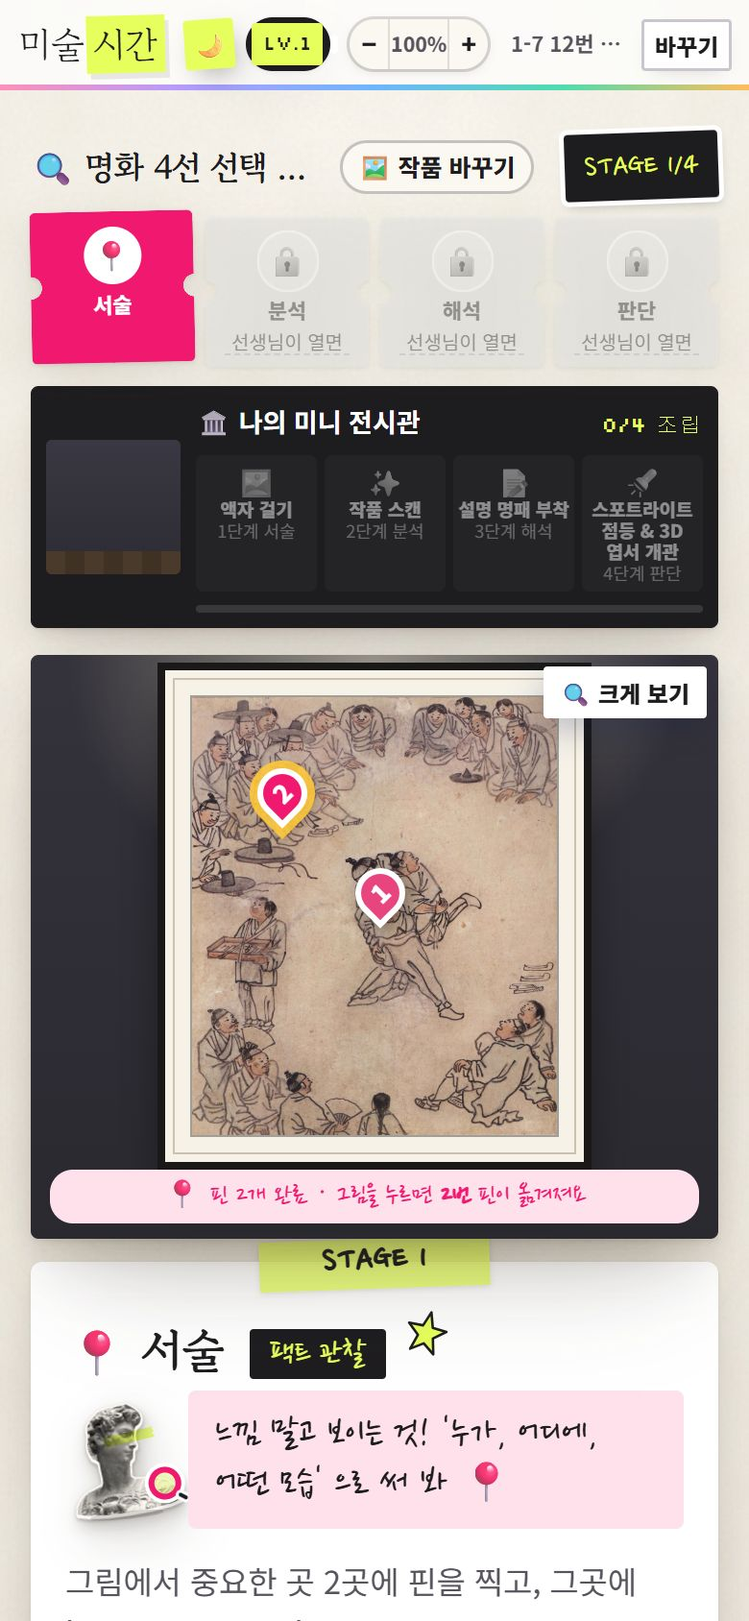
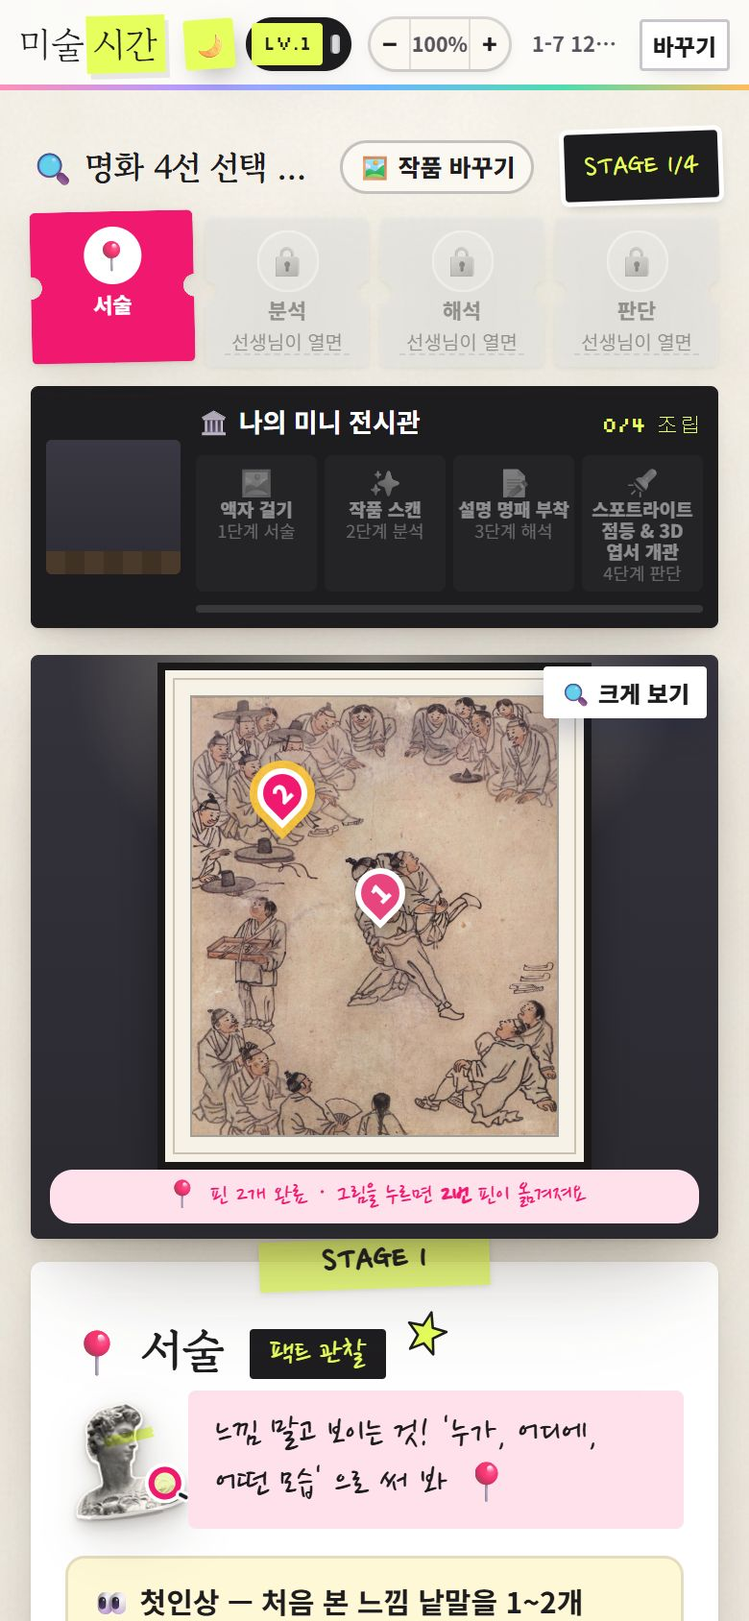
동기유발·펠드먼 보완 반영: 🎬 10초 플래시·부분 확대 미스터리, 교실 활동 카드, 90분 블록 계획, 👀 첫인상·🏷 미술 용어·🗝 작가 단서·🔁 다시 본 느낌, FAQ, 화면 새로 찍음

diff --git a/index.html b/index.html
@@ -172,6 +172,14 @@ h2 { font-family: var(--serif); font-weight: 700; font-size: clamp(30px, 4.4vw, 
 
 /* ── 교사 도구 ── */
 .tools { display: grid; grid-template-columns: repeat(3, 1fr); gap: 18px; }
+.tools.four { grid-template-columns: repeat(4, 1fr); }
+@media (max-width: 980px) { .tools.four { grid-template-columns: repeat(2, 1fr); } }
+@media (max-width: 560px) { .tools.four { grid-template-columns: 1fr; } }
+.blockplan { display: grid; grid-template-columns: repeat(7, auto); gap: 6px; margin: 26px 0 6px; padding: 0; list-style: none; overflow-x: auto; }
+.blockplan li { min-width: 108px; padding: 10px 10px 9px; background: var(--paper); box-shadow: var(--shadow); font-size: 13px; line-height: 1.45; }
+.blockplan li b { display: block; font-family: var(--px); font-size: 10.5px; color: var(--pink); margin-bottom: 2px; }
+.blockplan li.brk { background: transparent; box-shadow: none; display: grid; place-items: center; color: var(--ink-3); font-weight: 800; min-width: 70px; }
+@media (max-width: 860px) { .blockplan { grid-template-columns: repeat(2, 1fr); } .blockplan li.brk { grid-column: 1 / -1; } }
 .tool { padding: 22px 20px 20px; background: var(--paper); box-shadow: var(--shadow); position: relative; }
 .tool .ic { font-size: 28px; }
 .tool h4 { margin: 6px 0 4px; font-size: 17px; }
@@ -466,12 +474,13 @@ footer .credit { font-size: 12.5px; color: var(--ink-3); }
 
     <div class="fs" id="s1">
       <div class="txt rv"><div class="num">01</div><span class="chip">팩트 관찰</span><h3>서술 — 보이는 것만, 사실대로</h3><p class="sub">느낌 말은 잠깐 참아요!</p>
-        <ul><li>그림에서 중요한 곳 <b>두 곳에 핀</b>을 찍고, 핀마다 <b>보이는 사실 한 문장</b>을 씁니다.</li>
+        <ul><li><b>👀 첫인상</b> — 서술 맨 위에서 교과서 '감상의 첫발'(49쪽) 느낌 낱말 15개 중 1~2개를 먼저 고릅니다. <b>"느낌은 여기에만!"</b> 맡겨 두고, 아래 서술에는 사실만 씁니다. 판단을 마치면 이 첫인상과 다시 비교해요.</li>
+          <li>그림에서 중요한 곳 <b>두 곳에 핀</b>을 찍고, 핀마다 <b>보이는 사실 한 문장</b>을 씁니다.</li>
           <li>'예쁘다·무섭다' 같은 <b>느낌 말이 들어가면 바로 안내</b>가 떠서 관찰 문장으로 고쳐 쓰게 됩니다.</li>
           <li>작품마다 준비된 <b>관찰 단어 칩</b>을 누르면 문장에 쏙 들어갑니다.</li>
           <li>칠판의 작품 탭에는 그 작품을 고른 학생들이 찍은 <b>① ② 핀 지도</b>가 그려져, 시선이 어디에 모였는지 한눈에 보입니다.</li>
           <li>제출하면 <b>"📍 단서 포착 완료!"</b> 도장이 쾅 찍히고, 쓴 글이 경험치 바로 쏙 빨려 들어갑니다.</li></ul></div>
-      <div class="vis rv"><div class="phone rot-l"><img src="img/s-describe2.jpg" alt="학생 화면: 핀 두 개와 관찰 문장 쓰기" loading="lazy" width="780" height="1688"></div>
+      <div class="vis rv"><div class="phone rot-l"><img src="img/s-first.jpg" alt="학생 화면: 첫인상 느낌 낱말 고르기와 관찰 문장 쓰기" loading="lazy" width="780" height="1688"></div>
         <div class="shot"><span class="tape"></span><img src="img/t-describe.jpg" alt="교사 칠판: 반 전체 관찰 핀 지도와 학생 문장" loading="lazy" width="2160" height="1350"><p class="cap">칠판 [작품 1] 탭 — 핀 지도</p></div></div>
     </div>
 
@@ -481,6 +490,7 @@ footer .credit { font-size: 12.5px; color: var(--ink-3); }
           <li>질문은 "칸이 작아지나요?" 같은 묘사가 아니라 <b>"이 조형 장치가 그림 전체에 어떤 느낌과 시각적 효과를 만들어 내나요?"</b>입니다.</li>
           <li>깊이감 · 시선 집중 · 역동감 · 균형처럼 서로 다른 <b>효과 4가지 중 가장 공감 가는 것</b>을 고릅니다. <b>정답·오답이 없어</b> 무엇을 골라도 근거 칸이 열립니다.</li>
           <li>근거 칸은 <b>"그림의 [어느 부분]의 [무엇]이 [어떻게] 되어 있어서 ‘깊이감’이 느껴진다"</b>처럼 고른 효과와 그림 속 위치를 잇는 한 줄 비평으로 이끕니다.</li>
+          <li><b>🏷 미술 용어 칩</b> — 근거 칸 아래 구도·강조·균형·대칭·대비·리듬·반복·비례·원근·동세·시선·보색 칩을 누르면 뜻이 나오고 문장에 쏙 들어갑니다. 용어를 쓰면 "🏷 미술 용어 사용!"과 ⭐ 보너스가 켜지고, 칠판에는 용어를 쓴 학생 수가 보입니다. (평가 기준 '미술 용어와 지식을 활용하여 설명')</li>
           <li>칠판에는 작품별로 우리 반이 공감한 <b>효과 분포 막대</b>가 쌓이고, 선생님도 칠판의 [👁 보조선 켜기]로 TV 속 작품 위에 같은 보조선을 띄워 함께 짚어 볼 수 있습니다.</li></ul>
         <ul class="pick4">
           <li><img src="img/art-ssireum.jpg" alt="" loading="lazy"><span><b>⭕ 원형 구도 · ✖ 엇갈린 대각선</b>김홍도 〈씨름〉</span></li>
@@ -494,12 +504,13 @@ footer .credit { font-size: 12.5px; color: var(--ink-3); }
     <div class="fs" id="s3">
       <div class="txt rv"><div class="num">03</div><span class="chip">의미 해석</span><h3>해석 — 내 근거로 작가의 뜻 읽기</h3><p class="sub">정답은 없어요, 근거만 있으면!</p>
         <ul><li>1·2단계에서 내가 쓴 관찰과 분석이 <b>'내가 모은 근거'</b>로 자동 정리되어 위에 놓입니다.</li>
+          <li><b>🗝 작가 단서 카드</b> — 내 근거로 첫 해석을 내면, 그제야 작가와 시대에 관한 단서 한 단락이 열립니다(진짜 제목·작가 이름은 비밀). 생각이 달라지면 <b>고쳐 쓸 수 있고(선택)</b>, 처음 해석은 남아 비교할 수 있습니다. '맥락' 관점까지 넓히는 장치입니다.</li>
           <li>모든 작품에 같은 <b>열린 발문</b> — "작가는 이 그림을 통해 어떤 감정이나 이야기를 전하고 싶었을까?"</li>
           <li><b>🎭 분위기와 감정 · 🎨 표현의 의도 · 📖 숨은 메시지</b> 세 렌즈 중 하나를 골라 생각을 시작합니다.</li>
           <li>막힐 때 펼치는 예시 문장은 <b>다른 그림(폭풍우 바다)</b> 이야기라 베낄 수 없고, 쓰는 구조만 배웁니다.</li>
           <li>칠판에는 우리 반이 고른 <b>렌즈 막대</b>가 실시간으로 쌓입니다.</li></ul>
         <div class="quote">"작가는 씨름판의 흥겨운 열기를 전하고 싶었을 것이다. 왜냐하면 구경꾼들이 둥글게 모여 모두 가운데를 보며 웃고 있기 때문이다."<small>— 근거가 있는 해석 (가상 학생 답)</small></div></div>
-      <div class="vis rv"><div class="phone rot-l"><img src="img/s-interpret2.jpg" alt="학생 화면: 해석의 3가지 렌즈 고르기" loading="lazy" width="780" height="1688"></div>
+      <div class="vis rv"><div class="phone rot-l"><img src="img/s-clue.jpg" alt="학생 화면: 첫 해석 뒤 열린 작가 단서 카드와 고쳐 쓴 해석" loading="lazy" width="780" height="1688"></div>
         <div class="shot"><span class="tape pk"></span><img src="img/t-spot.jpg" alt="교사 칠판: 렌즈 막대와 스포트라이트 중인 학생 답" loading="lazy" width="2160" height="1350"><p class="cap">누르면 반 전체 화면에 📢 스포트라이트</p></div></div>
     </div>
 
@@ -508,9 +519,10 @@ footer .credit { font-size: 12.5px; color: var(--ink-3); }
         <ul><li>💗 생생한 감정 전달 · 📐 치밀한 구도와 표현 · 📜 시대와 삶의 기록 · 👁 사실적인 재현 — <b>네 가지 비평 관점</b> 중 하나를 고릅니다.</li>
           <li>문장 틀의 첫 빈칸은 칩으로, <b>"특히 그림 속 ___ 부분"</b>의 둘째 빈칸은 그림을 보고 직접 씁니다. 빈칸이 남으면 공유할 수 없습니다.</li>
           <li>1~4단계 답이 <b>한 장의 비평문 카드</b>로 자동으로 묶입니다.</li>
+          <li><b>🔁 다시 본 느낌</b> — "👀 처음 느낌: 활기찬 → 지금은?" 비평을 마친 뒤 느낌 낱말을 다시 고릅니다. 엽서 에세이 끝에 "처음엔 '활기찬' 느낌이었다. 비평을 마친 지금은 '생생한' 느낌이 든다."가 들어가고, 칠판에는 느낌이 달라진 학생 수가 보입니다.</li>
           <li><b>🏷 나만의 작품 제목</b>을 지어야 카드를 공유할 수 있습니다. 진짜 제목을 모르는 채, 내 비평을 담아 작품에 새 이름을 붙입니다.</li>
           <li>내 카드를 공유해야 같은 작품을 고른 친구들의 카드가 열리고, 설득력 있는 카드에 <b>한 사람 3표</b>로 투표합니다.</li></ul></div>
-      <div class="vis duo rv"><div class="phone rot-l"><img src="img/s-judge-title.jpg" alt="학생 화면: 두 문장 틀과 나만의 작품 제목 짓기" loading="lazy" width="780" height="1688"></div>
+      <div class="vis duo rv"><div class="phone rot-l"><img src="img/s-again.jpg" alt="학생 화면: 처음 느낌과 비교해 다시 본 느낌 고르기, 나만의 작품 제목" loading="lazy" width="780" height="1688"></div>
         <div class="phone rot-r"><img src="img/s-wall.jpg" alt="학생 화면: 친구들의 비평문 카드와 투표" loading="lazy" width="780" height="1688"></div></div>
     </div>
 
@@ -587,7 +599,7 @@ footer .credit { font-size: 12.5px; color: var(--ink-3); }
     </div>
 
     <div class="ex-feats">
-      <div class="tool rv"><div class="ic">🎴</div><h4>3D 양면 아트 엽서</h4><p><b>앞면</b>은 작품과 내가 고른 비평 관점, 금박 '미술시간 큐레이터 인증'. 공개 전에는 <b>내가 지은 제목 + 🔒 봉인 배지</b>, 공개 후에는 <b>진짜 제목 · 작가 · 제작 연도 · 큐레이터 해설</b>. <b>뒷면</b>은 1~4단계 문장이 한 편으로 이어진 큐레이터 비평 에세이와 줄리앙 우표, 'Curated by 내 이름' 서명.</p></div>
+      <div class="tool rv"><div class="ic">🎴</div><h4>3D 양면 아트 엽서</h4><p><b>앞면</b>은 작품과 내가 고른 비평 관점, 금박 '미술시간 큐레이터 인증'. 공개 전에는 <b>내가 지은 제목 + 🔒 봉인 배지</b>, 공개 후에는 <b>진짜 제목 · 작가 · 제작 연도 · 큐레이터 해설</b>. <b>뒷면</b>은 1~4단계 문장과 <b>첫인상 → 다시 본 느낌</b>이 한 편으로 이어진 큐레이터 비평 에세이와 줄리앙 우표, 'Curated by 내 이름' 서명.</p></div>
       <div class="tool rv"><div class="ic">🎧</div><h4>도슨트 음성</h4><p>학생 기기(브라우저)에 들어 있는 한국어 음성이 미술관 도슨트처럼 차분한 속도(0.95)로 내 비평 에세이를 읽어 줍니다. 읽는 동안 음파가 움직입니다.</p></div>
       <div class="tool rv"><div class="ic">📸</div><h4>이미지로 소장</h4><p>엽서 앞·뒷면을 깔끔한 세로 이미지 두 장으로 만들어 줍니다. 휴대폰은 길게 눌러 사진에 저장합니다.</p></div>
       <div class="tool rv"><div class="ic">🗂</div><h4>내 비평 도록집</h4><p>로비 맨 위 버튼으로 지금까지 완성한 엽서를 모아 보고, 다시 뒤집고, 다시 들을 수 있습니다.</p></div>
@@ -618,10 +630,46 @@ footer .credit { font-size: 12.5px; color: var(--ink-3); }
 
 <div class="chapter" id="guide"><div class="wrap"><span class="ch-no">PART 03</span><h2 class="ch-title">교사 가이드</h2><p class="ch-lead">수업 진행 순서, 차시 지도, 칠판의 실시간 제어 도구, 수업 시작 방법을 한곳에 모았습니다.</p></div></div>
 
+<section id="warm" style="padding-top:40px">
+  <div class="wrap">
+    <div class="head rv"><div class="sec-no">교사 가이드 · 01 도입 · 동기유발</div><h2>칠판 버튼 하나로, <mark>반 전체가 함께</mark> 시작</h2>
+      <p class="sec-lead">수업을 열면 칠판 대기 화면(QR 아래)에 <b>🎬 동기유발</b> 패널이 있습니다. 누르면 칠판과 모든 학생 화면에 같은 활동이 뜨고, 학생이 적거나 고른 것은 그 기기에만 남습니다.</p></div>
+    <div class="fs" style="padding-top:20px">
+      <div class="txt rv"><div class="num" style="font-size:64px">⚡</div><span class="chip">10초 플래시 관찰</span><h3>10초만 보고, 기억해서 적고, 다시 보기</h3><p class="sub">'보기'와 '관찰'은 달라요!</p>
+        <ul><li>칠판과 학생 화면에 작품이 <b>10초 카운트다운</b>과 함께 보였다가 커튼으로 가려집니다.</li>
+          <li>학생은 "기억나는 것을 모두 적어 보세요" 칸에 한 줄에 하나씩 적고, 몇 개 기억했는지 바로 셉니다.</li>
+          <li>선생님이 <b>[👀 다시 보여 주기]</b>를 누르면 그림이 다시 나오고, 적은 것은 그대로 남아 <b>놓친 것</b>을 찾게 됩니다. → 자연스럽게 1단계 서술로!</li>
+          <li><b>[⏱ 다른 작품 10초]</b>로 네 작품을 돌아가며 할 수 있습니다.</li></ul></div>
+      <div class="vis rv"><div class="phone rot-l"><img src="img/s-warm-flash.jpg" alt="학생 화면: 그림이 가려진 뒤 기억나는 것을 적기" loading="lazy" width="780" height="1688"></div>
+        <div class="shot"><span class="tape"></span><img src="img/t-warm-flash.jpg" alt="교사 칠판: 10초 플래시 관찰 — 작품과 카운트다운" loading="lazy" width="2160" height="1350"><p class="cap">칠판 — 10초 카운트다운</p></div></div>
+    </div>
+    <div class="fs flip">
+      <div class="txt rv"><div class="num" style="font-size:64px">🔍</div><span class="chip pk">부분 확대 미스터리</span><h3>한 부분만 크게 — 어느 작품일까?</h3><p class="sub">작품을 고르기 전에 호기심부터!</p>
+        <ul><li>작품의 한 부분(엿판을 멘 소년, 관 위의 해골, 노란 초승달, 빨간 사각형 …)만 크게 확대해 보여 줍니다.</li>
+          <li>학생은 자기 화면에서 <b>작품 카드 4장 중 하나</b>를 골라요.</li>
+          <li>선생님이 <b>[🔍 정답 공개]</b>를 누르면 확대가 스르륵 풀리며 전체 그림이 나오고, 그 부분에 동그라미가 쳐집니다. 학생 화면엔 "🎉 정답!"</li>
+          <li><b>[▶ 다음 문제]</b>로 다른 작품의 다른 부분이 이어집니다. 진짜 제목은 이때도 비밀(작품 1~4)입니다.</li></ul></div>
+      <div class="vis rv"><div class="phone rot-l"><img src="img/s-warm-mystery.jpg" alt="학생 화면: 확대된 부분을 보고 작품 카드 고르기" loading="lazy" width="780" height="1688"></div>
+        <div class="shot"><span class="tape pk"></span><img src="img/t-warm-reveal.jpg" alt="교사 칠판: 정답 공개 — 전체 그림과 확대했던 부분 동그라미" loading="lazy" width="2160" height="1350"><p class="cap">칠판 — 정답 공개: 확대가 풀리며 전체 그림</p></div></div>
+    </div>
+    <h3 class="rv" style="margin:40px 0 16px;font-size:22px">📋 앱 없이 하는 교실 활동 카드 <small style="font-size:14px;color:var(--ink-3);font-weight:500">칠판 패널에도 들어 있어요</small></h3>
+    <div class="tools four">
+      <div class="tool rv"><div class="ic">👓</div><h4>'보기' 말고 '관찰'하기</h4><p>(교과서 49쪽 · 서술 전 15분) 짝 한 명은 종이 안경으로 눈을 가리고, 다른 한 명이 작품을 말로만 설명 → 그림으로 그린 뒤 원작과 비교합니다.</p></div>
+      <div class="tool rv"><div class="ic">🧍</div><h4>몸으로 구도 만들기</h4><p>(분석 뒤 10분) 모둠이 고른 작품의 구도를 몸으로 재현해 사진 — 씨름 원형 · 마사초 삼각형 · 별밤 소용돌이 · 몬드리안 칸 나누기.</p></div>
+      <div class="tool rv"><div class="ic">🗳</div><h4>"예뻐요" vs 진짜 비평</h4><p>(판단 전 5분) "색이 예뻐서 좋다"와 "노랑·파랑 보색 대비로 별빛이 강렬해서 가치 있다" 중 설득력 있는 쪽에 손들기.</p></div>
+      <div class="tool rv"><div class="ic">🏛</div><h4>큐레이터 미션 선언</h4><p>(시작 2분) "오늘 우리 반은 미술관 큐레이터! 전시 개관(엽서)까지 미션 완수" — 미니 전시관·엽서와 이어집니다.</p></div>
+    </div>
+  </div>
+</section>
+
 <section id="flow" style="padding-top:40px">
   <div class="wrap">
-    <div class="head rv"><div class="sec-no">교사 가이드 · 01 수업 진행</div><h2>45분 수업, 한 단계가 <mark>이렇게</mark> 돌아갑니다</h2>
-      <p class="sec-lead">선생님 기기 한 대를 TV에 연결하고, 학생은 각자 휴대폰이나 태블릿으로 들어옵니다. 수업을 열면 칠판 대기 화면에 <b>45분 진행 계획</b>이 함께 뜹니다.</p></div>
+    <div class="head rv"><div class="sec-no">교사 가이드 · 02 수업 진행</div><h2>블록타임 90분, <mark>이렇게</mark> 흘러갑니다</h2>
+      <p class="sec-lead">미술은 두 교시를 이어서 하는 블록 수업입니다. 선생님 기기 한 대를 TV에 연결하고, 학생은 각자 휴대폰·태블릿·노트북으로 들어옵니다. 수업을 열면 칠판 대기 화면에 <b>90분 블록 진행 계획</b>이 함께 뜹니다.</p></div>
+    <ol class="blockplan rv">
+      <li><b>~10분</b>🎬 도입 · 동기유발</li><li><b>~25분</b>📍 서술 + 첫인상</li><li><b>~45분</b>📐 분석 + 몸으로 구도</li><li class="brk">☕ 쉬는 시간</li>
+      <li><b>~60분</b>💡 해석 + 작가 단서</li><li><b>~75분</b>⚖ 판단 · 엽서</li><li><b>~90분</b>🔓 발표 → 정체 공개 → 첫인상 변화</li></ol>
+    <h3 class="rv" style="margin:34px 0 12px;font-size:20px">한 단계는 이렇게 돌아갑니다</h3>
     <ol class="flow">
       <li class="rv"><span class="who t">교사</span><h4>단계 열기</h4><p>칠판에서 ▶ 다음을 누르면 모든 학생 화면이 같은 단계로 넘어갑니다.</p></li>
       <li class="rv"><span class="who s">학생</span><h4>찍고 · 고르고 · 쓰기</h4><p>내가 고른 명화에 핀을 찍고, 보조선으로 조형 장치를 살펴 공감하는 효과를 고르고, 근거 문장을 씁니다.</p></li>
@@ -635,7 +683,7 @@ footer .credit { font-size: 12.5px; color: var(--ink-3); }
 
 <section id="map" style="padding-top:40px">
   <div class="wrap">
-    <div class="head rv"><div class="sec-no">교사 가이드 · 02 차시 지도</div><h2>한 차시, <mark>명화 4선</mark> 중 끌리는 한 점을</h2>
+    <div class="head rv"><div class="sec-no">교사 가이드 · 03 차시 지도</div><h2>한 차시, <mark>명화 4선</mark> 중 끌리는 한 점을</h2>
       <p class="sec-lead">감상 단원은 하나의 통합 수업입니다. 서로 다른 조형적 매력을 가진 네 작품 중 학생이 직접 고르고, 모두 같은 펠드먼 4단계로 읽습니다. 표현 단원은 여러 주에 걸친 실기 수업을 이어서 진행합니다.</p></div>
     <div class="map">
       <div class="lesson rv"><span class="no">01</span><div class="th"><img src="img/art-ssireum.jpg" alt="" loading="lazy"></div><h4>시선과 해학의 풍속화</h4><p>김홍도 〈씨름〉 · 원형 구도</p><span class="unit">감상 · 작품 1</span></div>
@@ -651,10 +699,10 @@ footer .credit { font-size: 12.5px; color: var(--ink-3); }
 
 <section id="tools" style="padding-top:40px">
   <div class="wrap">
-    <div class="head rv"><div class="sec-no">교사 가이드 · 03 실시간 제어 도구</div><h2>TV에 띄우고, <mark>키 하나로</mark> 진행</h2>
+    <div class="head rv"><div class="sec-no">교사 가이드 · 04 실시간 제어 도구</div><h2>TV에 띄우고, <mark>키 하나로</mark> 진행</h2>
       <p class="sec-lead">교사 화면은 프로젝터·TV용 칠판으로 설계했습니다. 수업 중에는 키보드 단축키만으로 진행할 수 있습니다.</p></div>
     <div class="tools">
-      <div class="tool rv"><div class="ic">📱</div><h4>QR 입장</h4><p>수업을 열면 칠판에 QR과 접속한 학생 번호판이 뜹니다. 학생은 찍고 바로 들어옵니다.</p></div>
+      <div class="tool rv"><div class="ic">🎬</div><h4>동기유발</h4><p>대기 화면의 <b>⚡ 10초 플래시 관찰 · 🔍 부분 확대 미스터리</b>를 누르면 칠판과 모든 학생 화면에 함께 뜹니다. QR과 접속 번호판도 같은 화면에.</p></div>
       <div class="tool rv"><div class="ic">🖼</div><h4>작품별 필터 탭</h4><p><b>[전체]</b>는 네 작품의 선택 인원과 단계별 제출 현황, <b>[작품 1~4]</b>는 그 작품만의 핀 지도·효과 분포 막대·비평 순위와 <b>조형 보조선</b>을 보여 줍니다.</p></div>
       <div class="tool rv"><div class="ic">🔓</div><h4>작품 정보 일괄 공개</h4><p>발표가 끝난 뒤 <b>[실제 작품 정보 및 해설 공개하기]</b> 한 번이면 모든 학생 엽서와 칠판이 실시간으로 공개됩니다. (<kbd>I</kbd> 키)</p></div>
       <div class="tool rv"><div class="ic">🗂</div><h4>엽서 전시</h4><p>판단·결과 단계에 반 전체 3D 엽서가 투표 순으로 모입니다. 누르면 뒤집히고, 크게 보기로 도슨트 음성을 함께 듣습니다.</p></div>
@@ -678,7 +726,7 @@ footer .credit { font-size: 12.5px; color: var(--ink-3); }
 <section id="start" style="padding-top:40px">
   <div class="wrap start">
     <div class="rv">
-      <div class="sec-no">교사 가이드 · 04 수업 시작</div><h2>주소 하나, <mark>QR 한 번</mark></h2>
+      <div class="sec-no">교사 가이드 · 05 수업 시작</div><h2>주소 하나, <mark>QR 한 번</mark></h2>
       <ol>
         <li><div><b>선생님이 수업 열기</b><span>교사 로비에서 반과 [감상 단원 · 명화 4선 선택 비평] 카드를 고르면 칠판에 QR이 뜹니다.</span></div></li>
         <li><div><b>학생 입장</b><span>QR을 찍거나 주소로 들어와 반·번호·이름을 입력하면 자동으로 오늘 수업에 들어오고, 비평할 명화를 한 점 고릅니다.</span></div></li>
@@ -695,7 +743,7 @@ footer .credit { font-size: 12.5px; color: var(--ink-3); }
 
 <section id="faq" style="padding-top:40px">
   <div class="wrap">
-    <div class="head rv"><div class="sec-no">교사 가이드 · 05 자주 묻는 질문</div><h2>자주 묻는 <mark>질문</mark></h2></div>
+    <div class="head rv"><div class="sec-no">교사 가이드 · 06 자주 묻는 질문</div><h2>자주 묻는 <mark>질문</mark></h2></div>
     <div class="faq">
       <details class="rv"><summary>어떤 기기에서 되나요?</summary><p>인터넷 브라우저만 있으면 됩니다. 학생은 휴대폰·태블릿·노트북 모두 가능하고, 교사는 노트북을 TV나 프로젝터에 연결해 씁니다. 앱 설치는 필요 없습니다.</p></details>
       <details class="rv"><summary>학생 계정을 만들어야 하나요?</summary><p>아니요. 처음 한 번 학년·반·번호·이름을 고르면 그 기기에 기억되고, 선생님이 수업을 열면 자동으로 입장합니다.</p></details>
@@ -707,6 +755,8 @@ footer .credit { font-size: 12.5px; color: var(--ink-3); }
       <details class="rv"><summary>학생마다 다른 작품을 고르면 칠판은 어떻게 보나요?</summary><p>칠판 위쪽의 <b>[전체]</b> 탭은 네 작품의 선택 인원과 단계별 제출 현황을, <b>[작품 1~4]</b> 탭은 그 작품을 고른 학생들의 핀 지도·응답·비평 순위만 보여 줍니다. 아직 고르지 않은 학생 수도 함께 보입니다.</p></details>
       <details class="rv"><summary>작품의 진짜 제목은 언제 공개되나요?</summary><p>선생님이 칠판에서 <b>[🔓 실제 작품 정보 및 해설 공개하기]</b>를 누르거나 결과 공개 단계로 넘길 때입니다. 그 전까지 엽서에는 학생이 지은 제목과 시대 힌트만 보입니다. 다시 누르면 잠금으로 돌아갑니다.</p></details>
       <details class="rv"><summary>연수나 시연 때 빠르게 체험하려면요?</summary><p>교사 로비 맨 위 <b>[🎪 부스 체험 모드]</b>를 켜 두세요. 학생 첫 화면에 '빠른 입장' 버튼이 생겨 학번 없이 '체험선생님'으로 바로 들어오고, 혼자서 1~4단계를 진행하며 엽서 아래 '작품 정체 바로 확인하기'로 직접 공개해 볼 수 있습니다. 감상 화면의 '처음부터 다시 체험'을 누르면 다음 분이 새로 시작합니다. 정규 수업 전에는 꼭 끄세요.</p></details>
+      <details class="rv"><summary>세특·평가에 쓸 기록은 어디서 보나요?</summary><p>칠판의 <b>CSV 저장</b>을 누르면 학생별로 첫인상, 서술 문장, 고른 효과와 근거(사용한 미술 용어 표시), 해석(단서 보기 전 처음 해석 포함), 판단 관점·문장, 나만의 제목, 다시 본 느낌이 한 줄씩 담겨 엑셀로 열립니다.</p></details>
+      <details class="rv"><summary>블록타임이 아닌 45분 수업에서도 되나요?</summary><p>네. 동기유발은 하나만(5분), 교실 활동 카드는 건너뛰고, 해석의 '고쳐 쓰기'는 선택이라 생략할 수 있습니다. 칠판에서 단계를 넘기는 대로 함께 움직입니다.</p></details>
       <details class="rv"><summary>다른 작품으로 수업하고 싶어요.</summary><p>작품 이미지와 관찰 칩·분석 질문·비하인드 스토리를 작품 데이터 파일에 추가하고, 명화 목록에 그 작품 이름을 넣으면 학생 갤러리와 칠판 탭에 새 액자가 생깁니다.</p></details>
     </div>
   </div>
@@ -741,7 +791,7 @@ footer .credit { font-size: 12.5px; color: var(--ink-3); }
     rb.textContent = opened ? "🔒 다시 봉인하기" : "🔓 선생님 버튼 체험 — 작품 정체 공개하기";
     flip.classList.remove("lit"); void flip.offsetWidth; if (opened) flip.classList.add("lit");
   };
-  const BODY = "그림 앞에 서서 가장 먼저 눈에 들어온 장면은 이렇다. 가운데에서 두 사람이 서로 붙잡고 있다. 구경꾼들이 둥글게 앉아 있다. 조형의 눈으로 다시 보면, 구도와 시선을 살펴보면 둥근 원 모양으로 앉아 시선이 가운데 씨름꾼에게 모인다. 동세와 강조를 살펴보면 배경을 비우고 두 씨름꾼의 몸을 엇갈린 대각선으로 그려 힘이 부딪치는 순간을 보여 준다. 화가는 구경꾼들을 둥근 원 모양으로 배치하여 시선이 가운데 씨름꾼으로 모이게 했고, 이를 통해 흥겹고 떠들썩한 분위기를 전달하려 했다. 그래서 나는 이렇게 평가한다. 이 작품은 흥겹고 떠들썩한 감정을 생생하게 전달하기 때문에 가치가 있다. 특히 그림 속 둥글게 모여 웃는 구경꾼들 부분이 그 느낌을 가장 잘 보여준다.";
+  const BODY = "그림 앞에 서서 가장 먼저 눈에 들어온 장면은 이렇다. 가운데에서 두 사람이 서로 붙잡고 있다. 구경꾼들이 둥글게 앉아 있다. 조형의 눈으로 다시 보면, 구도와 시선을 살펴보면 둥근 원 모양으로 앉아 시선이 가운데 씨름꾼에게 모인다. 동세와 강조를 살펴보면 배경을 비우고 두 씨름꾼의 몸을 엇갈린 대각선으로 그려 힘이 부딪치는 순간을 보여 준다. 화가는 구경꾼들을 둥근 원 모양으로 배치하여 시선이 가운데 씨름꾼으로 모이게 했고, 이를 통해 흥겹고 떠들썩한 분위기를 전달하려 했다. 그래서 나는 이렇게 평가한다. 이 작품은 흥겹고 떠들썩한 감정을 생생하게 전달하기 때문에 가치가 있다. 특히 그림 속 둥글게 모여 웃는 구경꾼들 부분이 그 느낌을 가장 잘 보여준다. 처음 이 그림 앞에 섰을 때는 '활기찬' 느낌이었다. 비평을 마친 지금은 '생생한' 느낌이 든다.";
   const tts = document.getElementById("ttsBtn");
   let speaking = false;
   const setOn = (on) => { speaking = on; tts.classList.toggle("on", on); tts.querySelector("b").textContent = on ? "⏹ 음성 멈추기" : "🎧 도슨트 음성 듣기"; };
